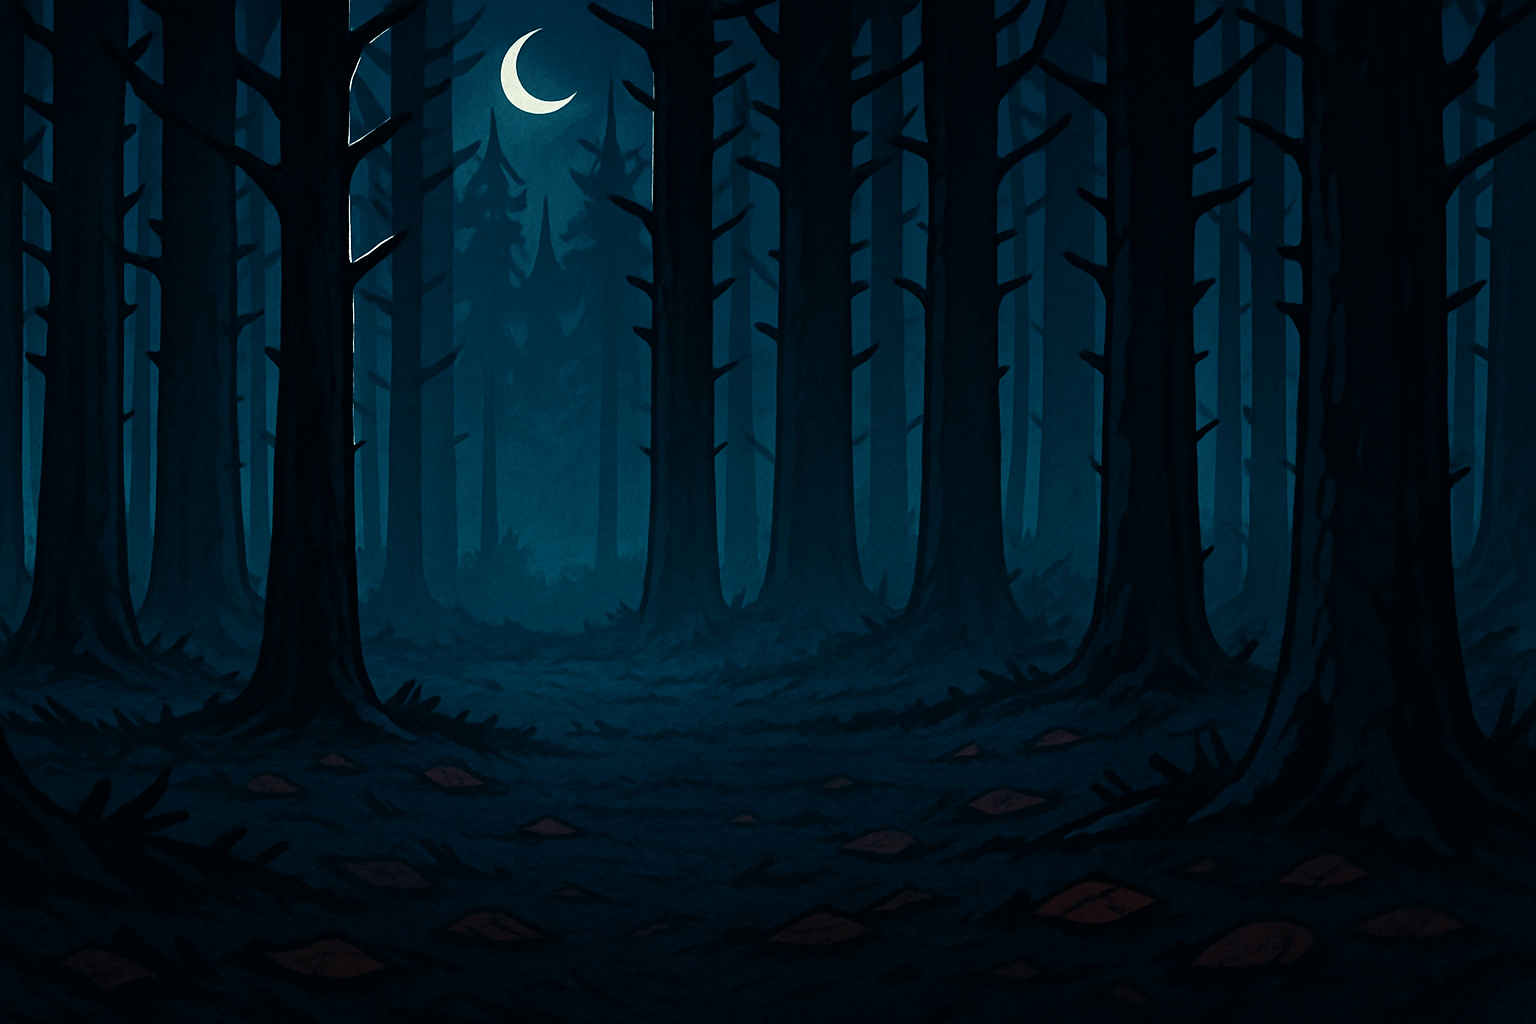
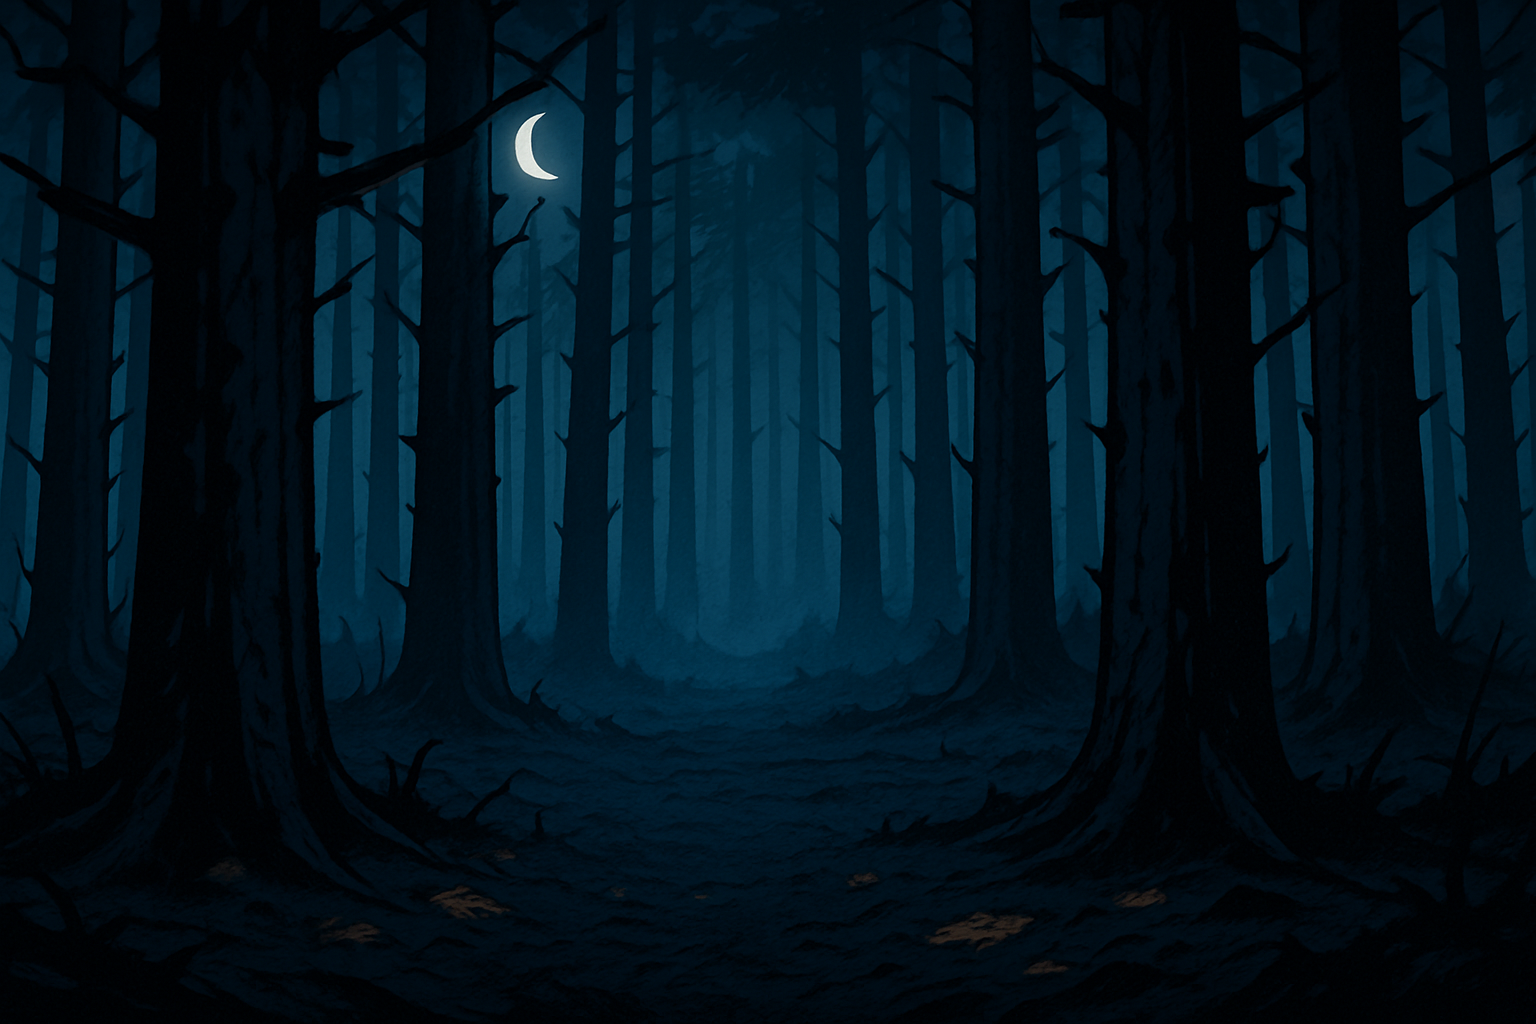
Forest: the axe was swinging at nothing, and the meter over-promised
Filmed the chop on a real phone rather than trusting it.

- THE STREAK METER READ x2.04 while swing() was paying x2.00. It printed the raw
  streak where the engine clamps at STREAK_CAP -- a meter promising more than the
  axe delivers is the shop-price bug in a different costume.
- THE AXE SAT AT right:6%, off in the undergrowth swinging at nothing while the
  tree shook on its own: the two halves of one action happening in different
  places. Brought over the cut, and the swing arcs into it.
- The damage numbers were scattering across the CANOPY -- the one part of the
  tree the blade is nowhere near. They burst at the cut now.
- The grove backdrop was redrawn: the first came back with a hard-edged
  rectangular panel around the moon, which reads as a rendering fault rather
  than as a forest.

Claude-Session: https://claude.ai/code/session_01E72m1hSPYhYEu9Epy4pBHj

diff --git a/src/components/ForestClient.js b/src/components/ForestClient.js
@@ -97,7 +97,9 @@ export default function ForestClient() {
         const id = chipId.current++;
         setChips((c) => [
             ...c.slice(-14),
-            { id, hit: res.hit, mult: res.mult, doubled: res.doubled, x: 32 + Math.random() * 36, y: 40 + Math.random() * 22 },
+            // AT THE CUT, NOT OVER THE CROWN. The numbers were scattering across the canopy, which is the
+            // one part of the tree the axe is nowhere near — they belong where the blade goes in.
+            { id, hit: res.hit, mult: res.mult, doubled: res.doubled, x: 40 + Math.random() * 20, y: 66 + Math.random() * 10 },
         ]);
         setTimeout(() => setChips((c) => c.filter((x) => x.id !== id)), 620);
         setShake(Math.min(6, 2 + res.streak * 0.22));
@@ -213,7 +215,12 @@ export default function ForestClient() {
                             <span className="fr-hp"><i style={{ width: `${pct}%` }} /></span>
                             <span className="fr-streak">
                                 <i style={{ width: `${streakPct}%` }} />
-                                <em>{live.streak > 0 ? `×${(1 + live.streak * STREAK_STEP).toFixed(2)}` : "swing faster"}</em>
+                                {/* ⚠ CLAMPED THE SAME WAY THE ENGINE CLAMPS IT. This read the raw streak and printed ×2.04
+                                    while swing() was paying ×2.00 — a meter promising more than the axe delivers is the
+                                    shop-price bug in a different costume. */}
+                                <em>{live.streak > 0
+                                    ? `×${(1 + Math.min(STREAK_CAP - 1, live.streak * STREAK_STEP)).toFixed(2)}`
+                                    : "swing faster"}</em>
                             </span>
                         </div>
                     </div>
@@ -341,14 +348,17 @@ export default function ForestClient() {
 
                 /* The axe rides in from the right on every swing. It is drawn upright, so the swing is a
                    rotation about its own head — see the note on orientation in gen-forest.mjs. */
-                .fr-axe { position: absolute; right: 6%; bottom: 16%; width: 34%; max-width: 190px;
-                    transform-origin: 60% 20%; transform: rotate(38deg);
+                /* ⚠ IT HAS TO REACH THE TRUNK. At right:6% the axe sat off in the undergrowth swinging at
+                   nothing while the tree shook on its own — the two halves of one action, happening in
+                   different places. Brought in over the cut, and the swing arcs into it. */
+                .fr-axe { position: absolute; left: 52%; bottom: 12%; width: 30%; max-width: 165px;
+                    transform-origin: 50% 15%; transform: rotate(46deg);
                     filter: drop-shadow(0 6px 12px rgba(0,0,0,.75)); pointer-events: none; }
                 .fr-axe.is-swing { animation: frSwing .11s ease-out; }
                 @keyframes frSwing {
-                    0% { transform: rotate(38deg) translate(0, 0); }
-                    55% { transform: rotate(-32deg) translate(-16%, 6%); }
-                    100% { transform: rotate(38deg) translate(0, 0); }
+                    0% { transform: rotate(46deg) translate(0, 0); }
+                    55% { transform: rotate(-26deg) translate(-26%, 4%); }
+                    100% { transform: rotate(46deg) translate(0, 0); }
                 }
                 .fr-axe.is-hot { filter: drop-shadow(0 6px 12px rgba(0,0,0,.75)) drop-shadow(0 0 14px rgba(255,170,60,.85)); }
 
